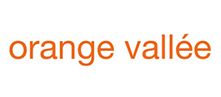
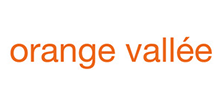
modifs

Changed region(s): [[0.0271, 0.4021, 0.543, 0.7113], [0.543, 0.3402, 0.9774, 0.6495]]

diff --git a/index.html b/index.html
@@ -48,7 +48,7 @@
         <div class="menu-right">
          <span class="blog"><a href="http://blog.xebia.fr" target="_blank" title="Blog Xebia France">Blog
         </a></span>
-         <span class="contact"><a href="mailto:contact@xebia.fr" target="_blank" title="Site Xebia France">Contact
+         <span class="contact"><a href="mailto:marketing@xebia.fr" target="_blank" title="Site Xebia France">Contact
         </a></p></span>
     </div>
     </section>
@@ -110,12 +110,12 @@
                     <tbody>
                     <tr>
                         <td>9h00 - 9h20</td>
-                        <td colspan="2" class="last-cell" data-toggle="modal" data-target="#keynote-modal">Petit Déjeuner</td>
+                        <td colspan="2" class="last-cell">Petit Déjeuner</td>
                         <td rowspan="7" class="inscription-cell">Sur invitation uniquement</td>
                     </tr>
                     <tr>
                         <td>9h20 - 9h30</td>
-                        <td colspan="2" class="last-cell popupable" data-toggle="modal" data-target="#keynote-modal">
+                        <td colspan="2" class="last-cell">
                             Présentation de l'équipe
                         </td>
                     <tr>
@@ -209,7 +209,7 @@
             </a>
 
             <a href="http://www.orange.fr/" target="_blank" class="img-wrapper second">
-                <img alt="Logo Orange-vallée" src="images/partner/orange-vallée.png"/>
+                <img alt="Logo Orange-vallée" src="images/partner/orange-vallee.png"/>
             </a>
 
             <a href="http://www.vidal.fr/" target="_blank" class="img-wrapper third">
@@ -245,7 +245,7 @@
 
     <section class="alliancy">
         <p class="xebia">Xebia</p>
-        <p>+33 (0)1 53 89 99 93 - <a href="mailto" class="white">contact@xebia.fr</p>
+        <p>+33 (0)1 53 89 99 93 - <a href="mailto:marketing@xebia.fr" class="white">marketing@xebia.fr</p>
        
     </section>
 </footer>
